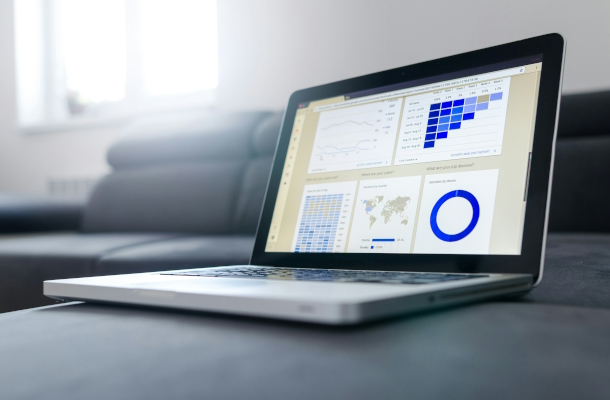
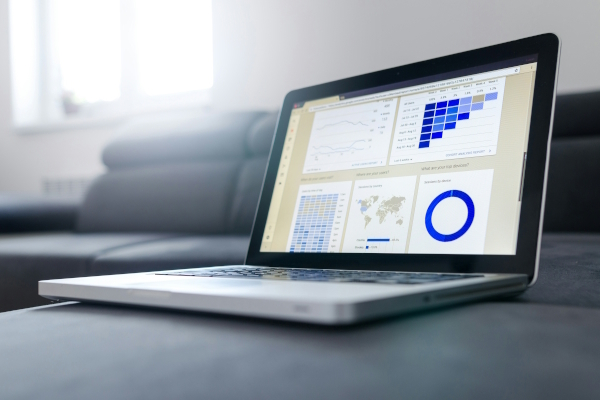
services images

diff --git a/index.html b/index.html
@@ -225,7 +225,7 @@
 							</p>
 						</div>
 						<div class="service-item rounded overflow-hidden">
-							<img class="img-fluid rounded-top" src="images/img-600x400-22.jpg" alt="">
+							<img class="img-fluid rounded-top" src="images/img-600x400-222.jpg" alt="">
 							<h3 class="heading-colored">I+D</h3>
 							<p>Auditorias Internas: Control documental, Evaluación
 								de riesgos e Investigación y mitigación de

diff --git a/css/style.css b/css/style.css
@@ -2093,3 +2093,13 @@ video {
   display: flex;
   justify-content: center;
 }
+
+.bg-image-mask {
+  /* position: absolute; */
+  /* top: 0;
+  left: 0;
+  width: 100%;
+  height: 100%; */
+  z-index: 3;
+  background: url('../images/bck-pixel.png');
+}
